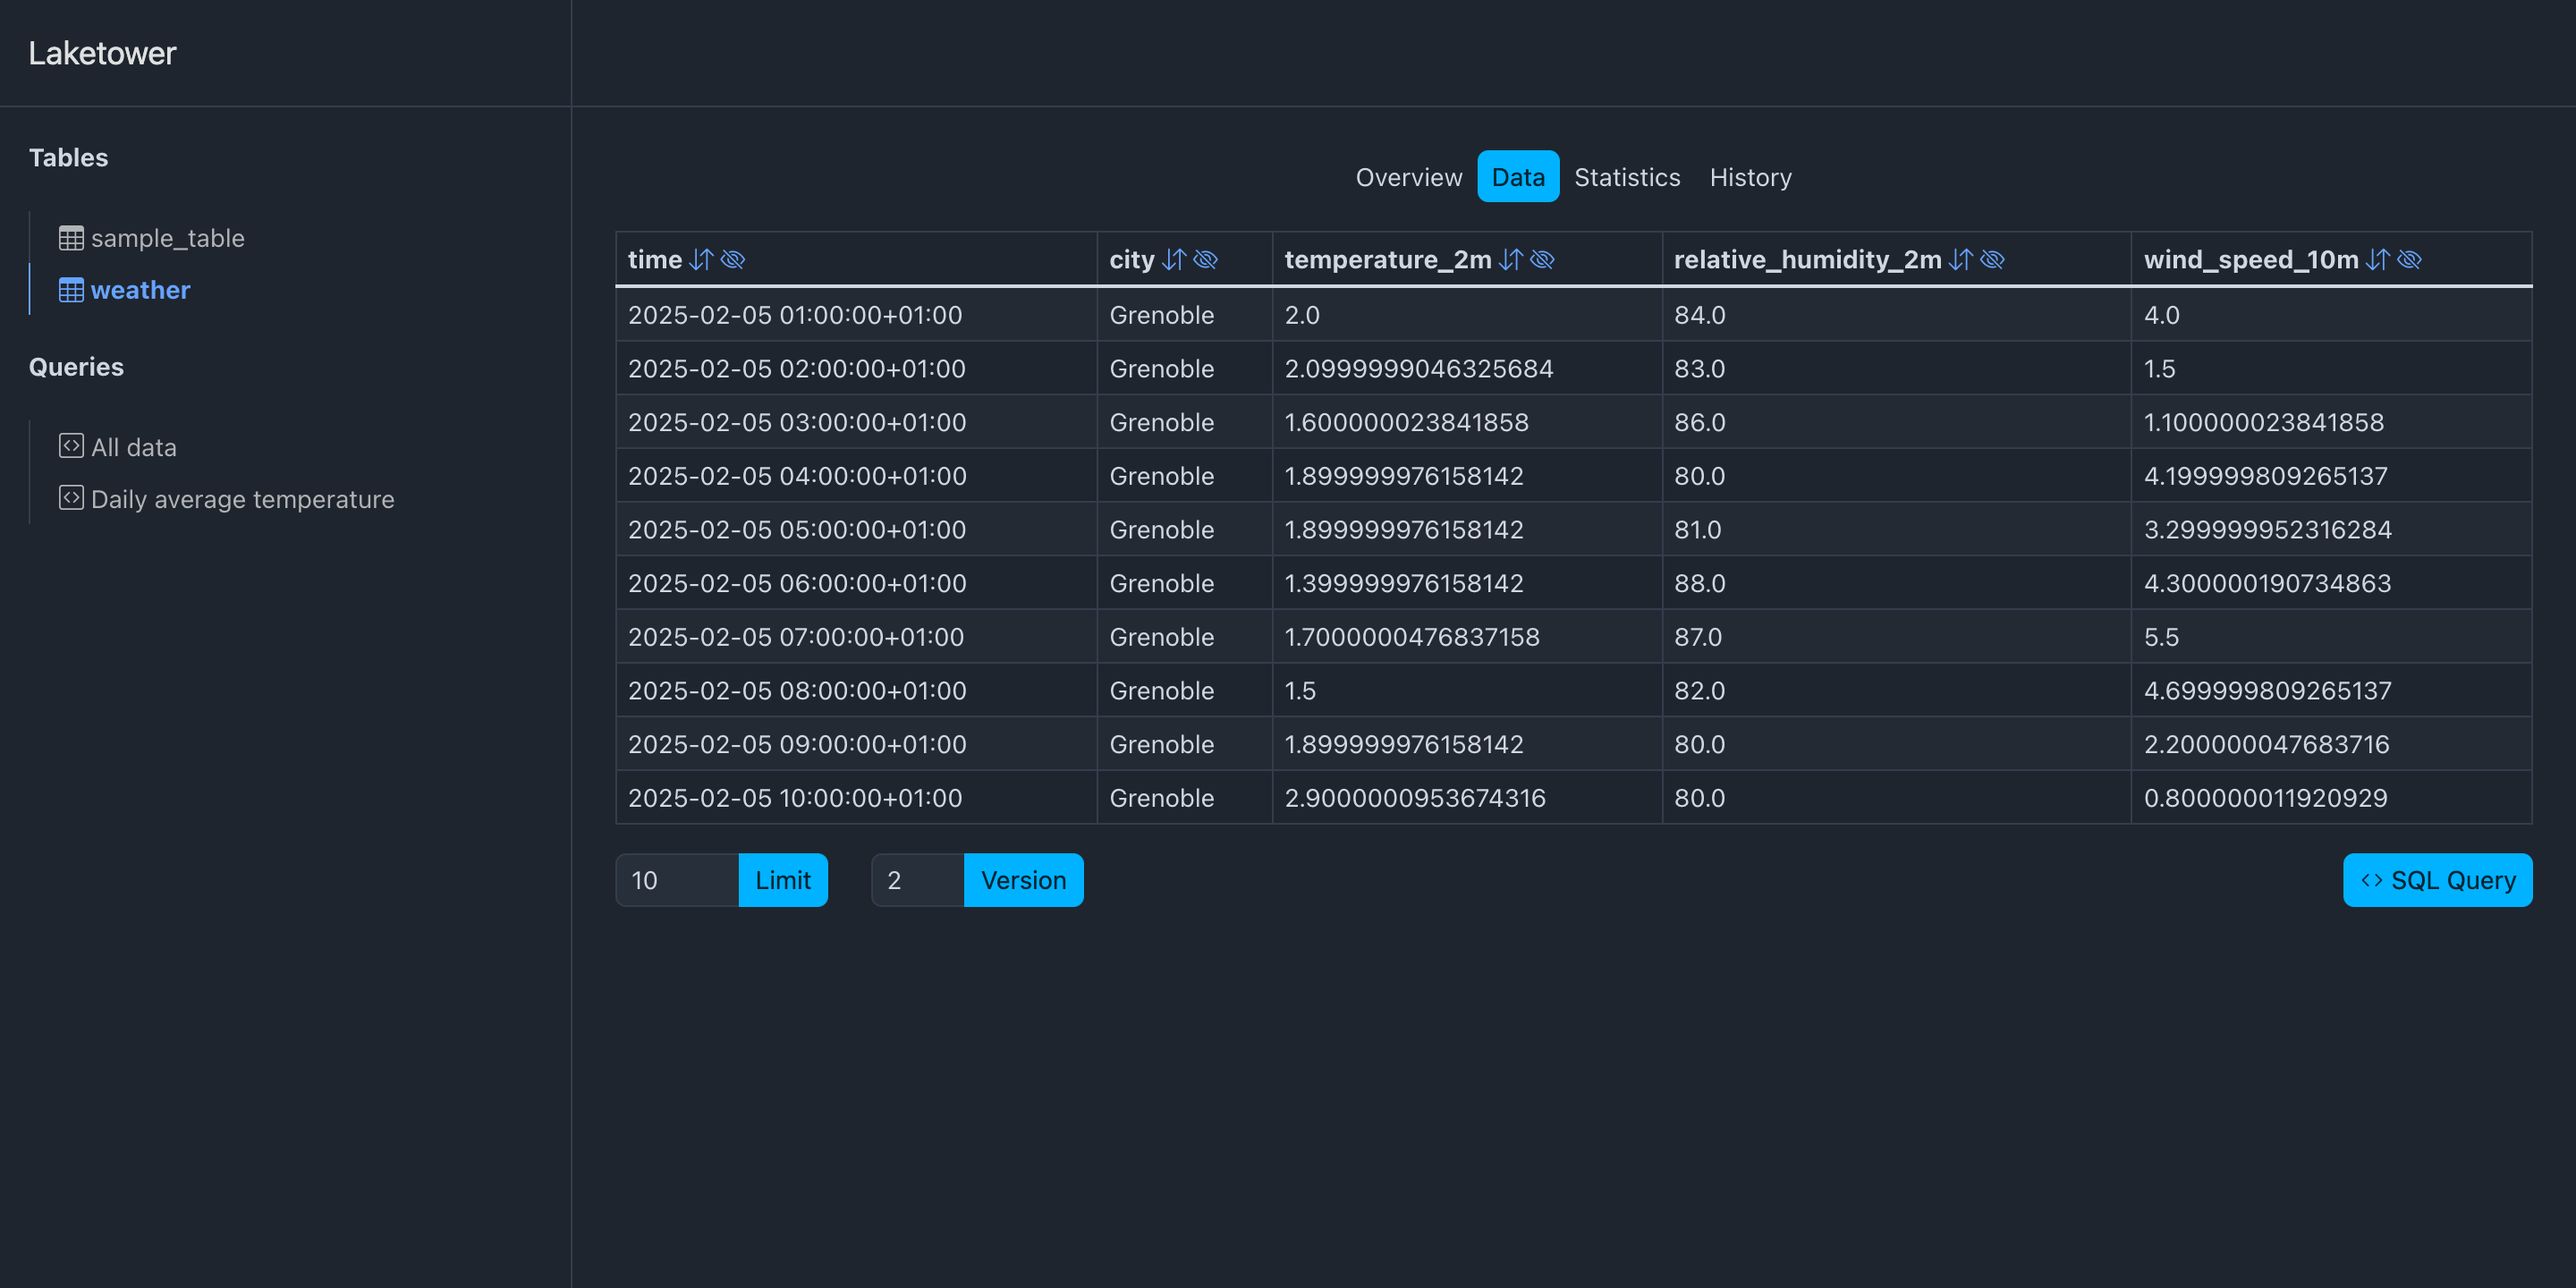
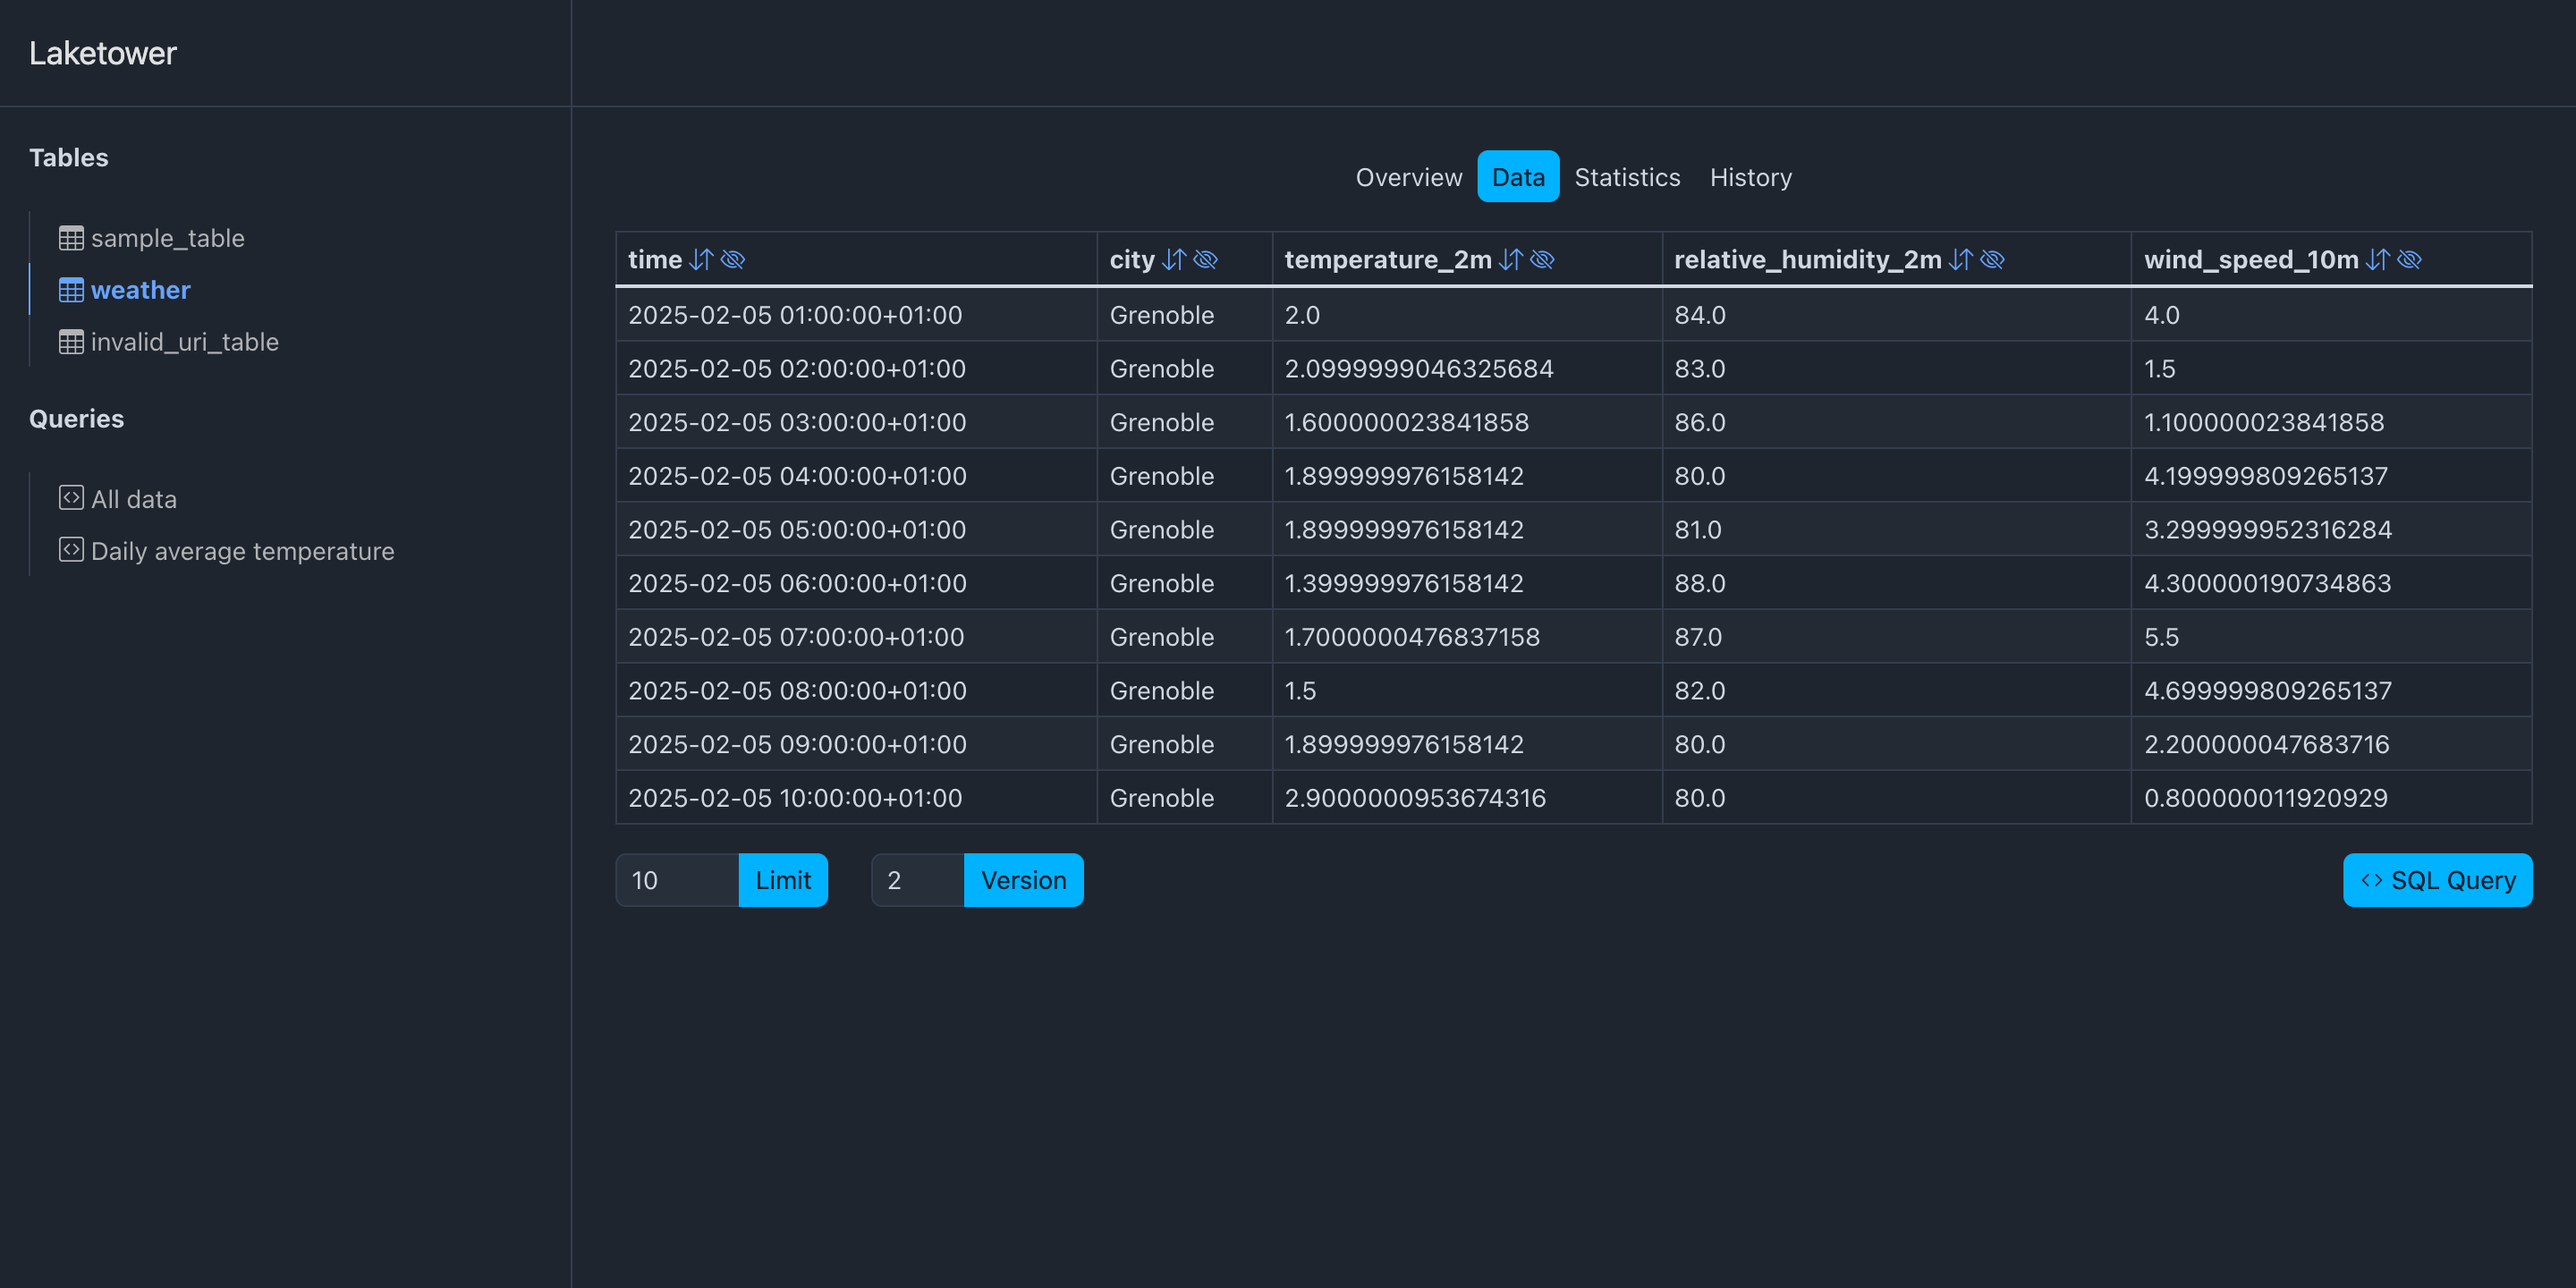
docs: update screenshots with csv export query button

Changed region(s): [[0.0, 0.25, 0.1562, 0.4375]]

diff --git a/CHANGELOG.md b/CHANGELOG.md
@@ -10,9 +10,10 @@ and this project adheres to [Semantic Versioning](https://semver.org/spec/v2.0.0
 - cli: add csv export option to tables query command
 - web: add csv export to query views
 
-### Changes
+### Changed
 - cli: table uri lazy validation in app configuration
 - web: table uri lazy validation in app configuration
+- docs: update web application screenshots
 
 ## [0.5.1] - 2025-05-30
 Patch release with support for `deltalake` version 1.0.0.
